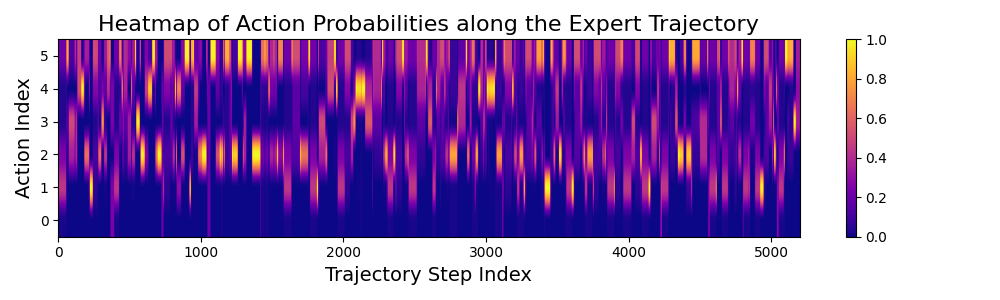
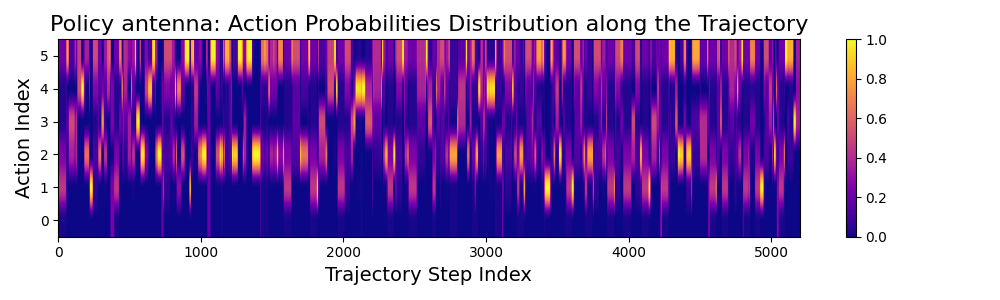
commit

Changed region(s): [[0.031, 0.03, 0.806, 0.12]]

diff --git a/plot_evaluate.py b/plot_evaluate.py
@@ -201,7 +201,7 @@ def plot_replicated_action_prob(q_values, state_indices, test_folder):
     plt.figure(figsize=(10, 3))
     plt.imshow(q_values[state_indices].T, cmap="plasma", aspect='auto')
     # plt.title("Heatmap of Action Probabilities along the Replicated Trajectory", fontsize=16)
-    plt.title("Policy vel-acc: Action Probabilities Distribution along the Trajectory", fontsize=16)
+    plt.title("Policy antenna: Action Probabilities Distribution along the Trajectory", fontsize=16)
     plt.tick_params(axis='both', which='minor', labelsize=12)
     plt.xlabel("Trajectory Step Index", fontsize=14)
     plt.ylabel("Action Index", fontsize=14)
